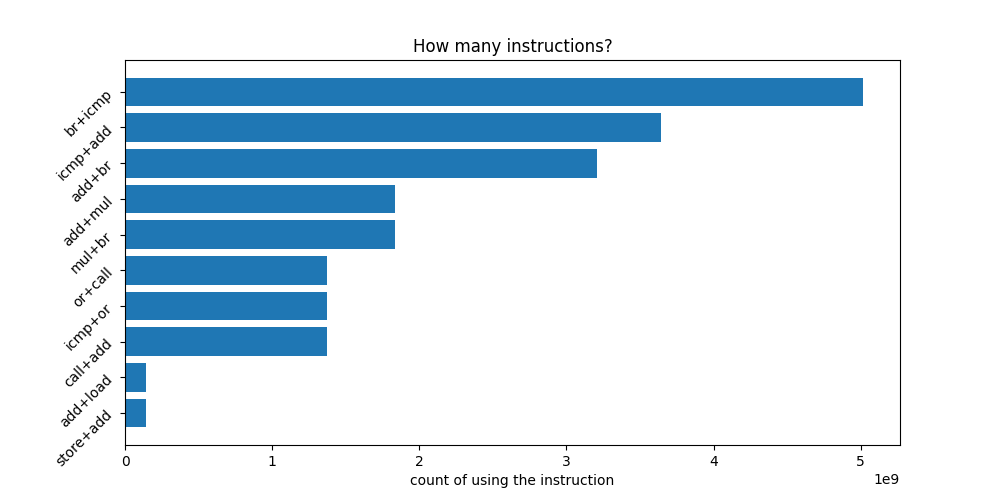
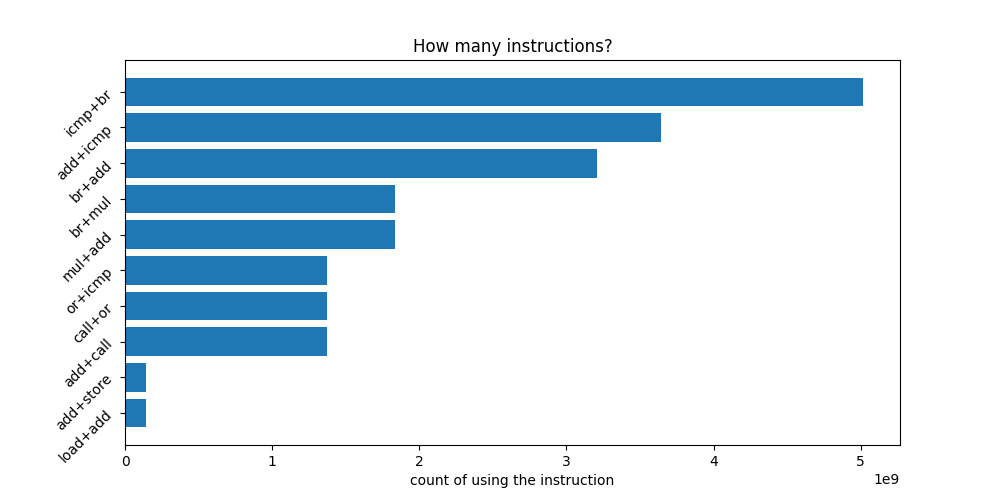
fixed instrumental dependencies

Changed region(s): [[0.062, 0.21, 0.124, 0.93], [0.093, 0.18, 0.124, 0.21]]

diff --git a/llvmInstrumentalPass/log.cpp b/llvmInstrumentalPass/log.cpp
@@ -4,7 +4,7 @@
 
 std::unordered_map<std::string, unsigned long long> instrs;
 
-// #define TRIPLET
+#define TRIPLET
 // #define PAIR
 
 extern "C" void instrLogger(char *opName) {
@@ -17,8 +17,8 @@ extern "C" void instrLogger(char *opName) {
 
     static std::string prev;
     static std::string prevprev;
-    std::string cur = std::string(opName) + std::string("+") + prev +
-                      std::string("+") + prevprev;
+    std::string cur = prevprev + std::string("+") + prev +
+                      std::string("+") + std::string(opName);
     prevprev = prev;
     prev = opName;
 
@@ -27,7 +27,7 @@ extern "C" void instrLogger(char *opName) {
 #elif defined(PAIR)
 
     static std::string prev;
-    std::string cur = std::string(opName) + std::string("+") + prev;
+    std::string cur = prev + std::string("+") + std::string(opName);
     prev = opName;
     ++instrs[cur];
 
